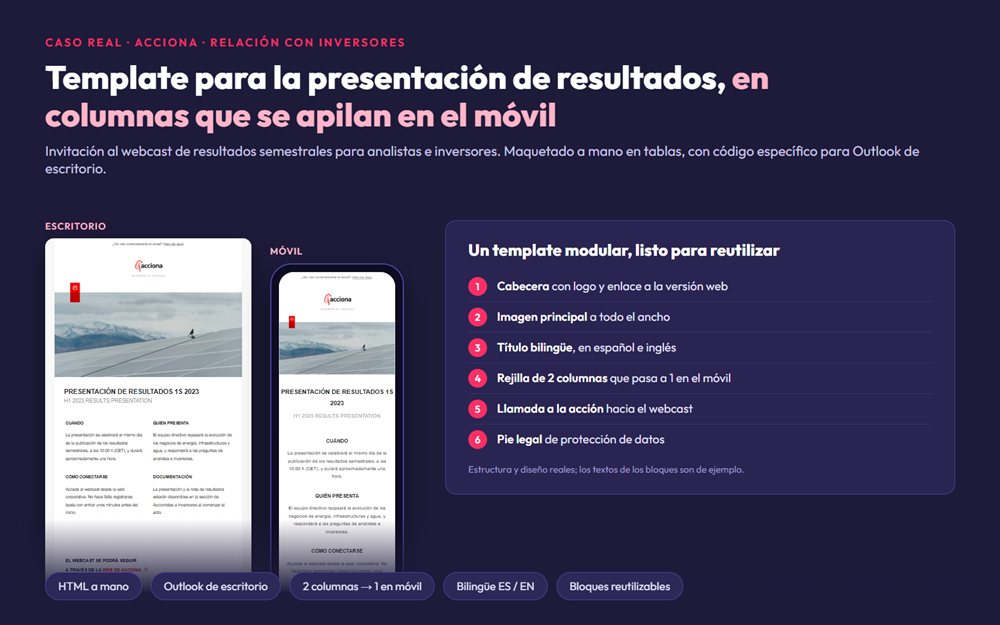
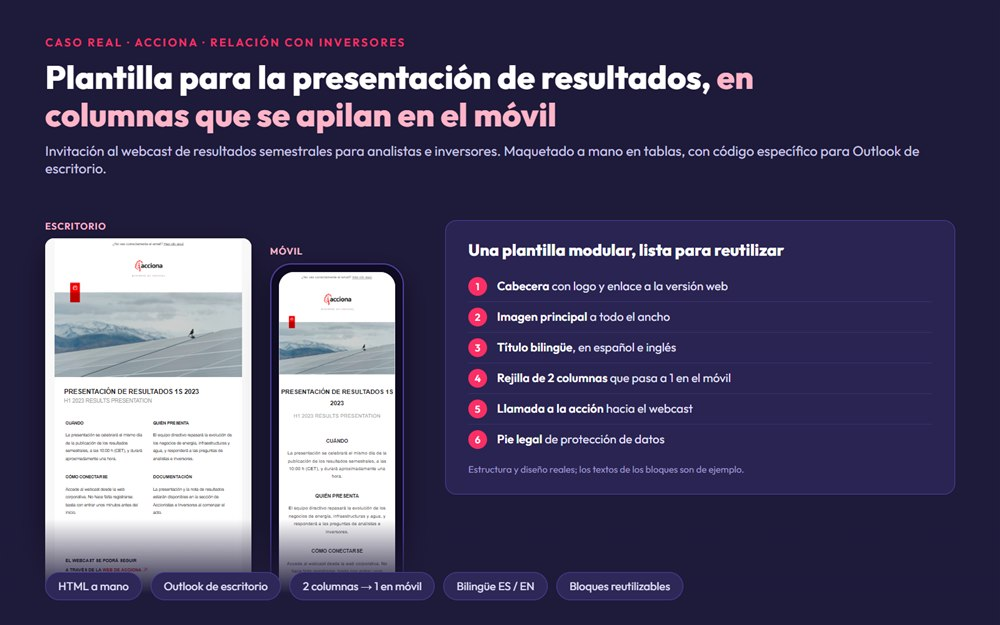
Gruppit y Acciona: «plantilla» en lugar de «template» (texto y portadas)

Changed region(s): [[0.031, 0.0912, 0.775, 0.152], [0.496, 0.3648, 0.775, 0.4256]]

diff --git a/README.md b/README.md
@@ -9,8 +9,8 @@ Especialista en **email marketing para ecommerce y pymes**, en Barcelona. Más d
 | | |
 |---|---|
 | ![GlobalPrinted](img/globalprinted.jpg)<br>**GlobalPrinted** · 14 emails transaccionales y flujos de WooCommerce con Brevo, a prueba de Outlook | ![Lilly](img/lilly-webinar.jpg)<br>**Lilly** · Flujo de 4 emails para un webinar a profesionales sanitarios |
-| ![Gruppit](img/gruppit.jpg)<br>**Gruppit** · Template modular de 6 bloques que su equipo combina sin tocar código | ![Grup Montaner](img/grup-montaner.jpg)<br>**Grup Montaner** · Newsletters para tres marcas, en HTML a mano |
-| ![Acciona](img/acciona.jpg)<br>**Acciona** · Template del webcast de resultados para inversores | ![Upani](img/upani.jpg)<br>**Upani** · Newsletters de tienda online y auditoría de email |
+| ![Gruppit](img/gruppit.jpg)<br>**Gruppit** · Plantilla modular de 6 bloques que su equipo combina sin tocar código | ![Grup Montaner](img/grup-montaner.jpg)<br>**Grup Montaner** · Newsletters para tres marcas, en HTML a mano |
+| ![Acciona](img/acciona.jpg)<br>**Acciona** · Plantilla del webcast de resultados para inversores | ![Upani](img/upani.jpg)<br>**Upani** · Newsletters de tienda online y auditoría de email |
 | ![Mercedes-Benz](img/mercedes-benz.jpg)<br>**Mercedes-Benz** · Banners animados en HTML5 en 6 formatos | ![LigarHoy](img/ligarhoy.jpg)<br>**LigarHoy** · Prelanding y flujo de 4 emails con afiliación |
 
 ## Herramientas con IA
